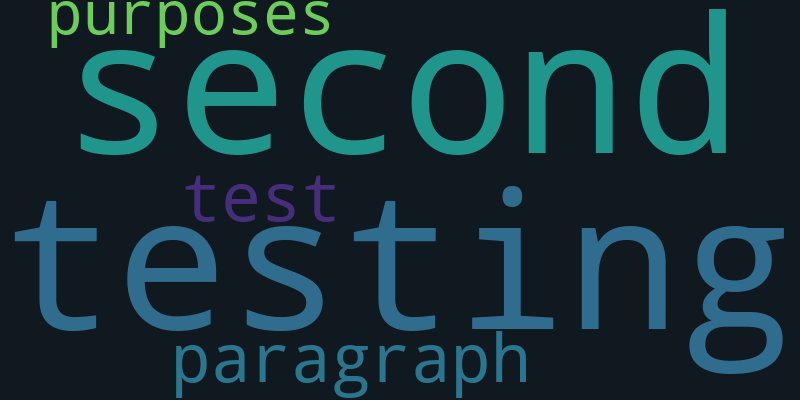
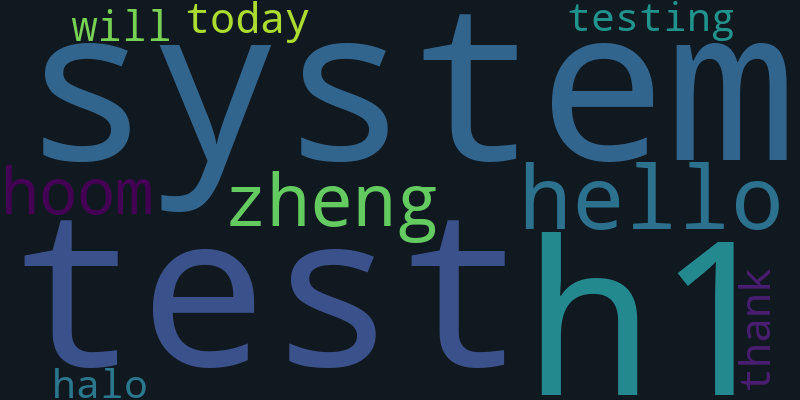
Slight modifications

diff --git a/static/script.js b/static/script.js
@@ -62,11 +62,11 @@ function validation(){
         openErrorPopup();
         return false;
     }
-//    else if(document.emaildata.subject.value.length < 5){
-//        document.getElementById("result").innerHTML="*Subject - Please enter proper subject.*";
-//        openErrorPopup();
-//        return false;
-//    }
+    else if (document.emaildata.emailBody.value.trim().length === 0) {
+        document.getElementById("result").innerHTML = "*Email Body - Cannot be empty.*";
+        openErrorPopup();
+        return false;
+    }
     else{
         document.getElementById("emailBody").value = document.getElementById("emailBody").value.replaceAll('<br>','')
         document.getElementById("emailBody").value = document.getElementById("emailBody").value.replaceAll('</p><p>','<br>')
@@ -75,21 +75,21 @@ function validation(){
     }
 }
 function excelValidation(){
-    if(document.exceldata.excelfile.value.length < 35){
-        document.getElementById("result").innerHTML="*Excel file - Please enter proper file directory.*";
+    if(document.exceldata.CSVfile.value.length < 35){
+        document.getElementById("result").innerHTML="*CSV file - Please enter proper file directory.*";
         openErrorPopup();
         return false;
     }
-    else if(document.exceldata.vendor.value.length < 7){
-        document.getElementById("result").innerHTML="*Vendor Code - Please enter proper vendor code.*";
+    else if(document.exceldata.name.value.length < 2){
+        document.getElementById("result").innerHTML="*Name - Please enter proper name.*";
         openErrorPopup();
         return false;
     }
-//    else if(document.exceldata.orderunit.value != "/^[A-Za-z]+$/"){
-//        document.getElementById("result").innerHTML="*Order Unit - Please enter proper unit.*";
-//        openErrorPopup();
-//        return false;
-//    }
+    else if(document.exceldata.subject.value.length < 3){
+        document.getElementById("result").innerHTML="*Subject - Please enter proper subject.*";
+        openErrorPopup();
+        return false;
+    }
     else{
         openPopup();
 

diff --git a/templates/excelTemp.html b/templates/excelTemp.html
@@ -18,7 +18,7 @@
     </div>
     <div class="email-template">
         <form name="exceldata" action="" method="post" enctype="multipart/form-data" onsubmit="return excelValidation()">
-        <h1> Excel PIR Template</h1>
+        <h1> Add Recipients </h1>
 
         <div class="content-template">
             <p>Add distribution list here: </p>

diff --git a/templates/index.html b/templates/index.html
@@ -13,11 +13,9 @@
     </script>
 
 <body>
-
     <section class = 'header'>
         <nav>
 <!--            <img src="static/Logo_Claim_A4_RGB.png" />-->
-
             <div class="nav-links">
                 <ul>
                     <ion-icon name="mail-outline"></ion-icon><li><a href="{{ url_for('massSend') }}">Mass Send </a></li>

diff --git a/static/css/style.css b/static/css/style.css
@@ -686,6 +686,18 @@ form.sign-up-form{
     color: white;
     height: 25px;
 }
+#editor h1{
+    color: white;
+    height: 25px;
+}
+#editor h2{
+    color: white;
+    height: 25px;
+}
+#editor h3{
+    color: white;
+    height: 25px;
+}
 .ql-container {
     background-color: #222222;
     border-radius: 10px;

diff --git a/app.py b/app.py
@@ -137,18 +137,28 @@ def saveValue():
         elif request.form['submitType'] == 'Save':
             for chunk in chunks:
                 for name, email, subject, attachment in chunk:
-                    message = outlook.CreateItem(0)
-                    message.To = email
-                    message.Subject = subject
-                    # Get signature
-                    message.GetInspector
-                    index = message.HTMLbody.find('>', message.HTMLbody.find('<body'))
-                    message.HTMLBody = message.HTMLbody[:index + 1] + template.format(name) + message.HTMLbody[index + 1:]
-                    attachments = attachment.split(', ')
-                    for i in range(len(attachments)):
-                        message.Attachments.Add(attachments[i])
-                    message.Save()
-                sleep(int(time))
+                    if attachment == '':
+                        message = outlook.CreateItem(0)
+                        message.To = email
+                        message.Subject = subject
+                        # Get signature
+                        message.GetInspector
+                        index = message.HTMLbody.find('>', message.HTMLbody.find('<body'))
+                        message.HTMLBody = message.HTMLbody[:index + 1] + template.format(name) + message.HTMLbody[index + 1:]
+                        message.Save()
+
+                    else:
+                        message = outlook.CreateItem(0)
+                        message.To = email
+                        message.Subject = subject
+                        # Get signature
+                        message.GetInspector
+                        index = message.HTMLbody.find('>', message.HTMLbody.find('<body'))
+                        message.HTMLBody = message.HTMLbody[:index + 1] + template.format(name) + message.HTMLbody[index + 1:]
+                        attachments = attachment.split(', ')
+                        for i in range(len(attachments)):
+                            message.Attachments.Add(attachments[i])
+                        message.Save()
         #     if attachment == '':
         #         for chunk in chunks:
         #             for name, email in chunk:
@@ -199,33 +209,37 @@ def dashboard():
     tdy = datetime.now()
     tdymonth = tdy.strftime("%b")
     month = tdy.strftime("%B")
-    with open(tdymonth + '.txt', 'r', encoding='utf-8') as file:
-        word = file.read().lower()
-    words = word.split(',')
+    try:
+        with open(tdymonth + '.txt', 'r', encoding='utf-8') as file:
+            word = file.read().lower()
+        words = word.split(',')
 
-    if word != '':
-        wordcloud = WordCloud(width=800, height=400, background_color='#101820').generate(word)
-        wordcloud.to_file('static/wordcloud.png')
-        word_count = Counter(words)
+        if word != '':
+            wordcloud = WordCloud(width=800, height=400, background_color='#101820').generate(word)
+            wordcloud.to_file('static/wordcloud.png')
+            word_count = Counter(words)
 
-        sorted_word_counts = dict(sorted(word_count.items(), key=lambda x: x[1], reverse=True))
-        top_10_words = list(sorted_word_counts.keys())[:10]
-        top_10_counts = [sorted_word_counts[item] for item in top_10_words]
+            sorted_word_counts = dict(sorted(word_count.items(), key=lambda x: x[1], reverse=True))
+            top_10_words = list(sorted_word_counts.keys())[:10]
+            top_10_counts = [sorted_word_counts[item] for item in top_10_words]
 
-        plt.figure(figsize=(10, 6))
-        # plt.bar(word_count.keys(), word_count.values())
-        plt.bar(top_10_words, top_10_counts)
-        plt.xlabel('Words')
-        plt.ylabel('Count')
-        plt.title('Word Count Bar Chart')
-        plt.xticks(rotation=45, ha='right')
-        plt.gca().yaxis.set_major_formatter(ticker.FormatStrFormatter('%d'))
-        plt.tight_layout()
-        plt.savefig('static/barchart.png')
+            plt.figure(figsize=(10, 6))
+            # plt.bar(word_count.keys(), word_count.values())
+            plt.bar(top_10_words, top_10_counts)
+            plt.xlabel('Words')
+            plt.ylabel('Count')
+            plt.title('Word Count Bar Chart')
+            plt.xticks(rotation=45, ha='right')
+            plt.gca().yaxis.set_major_formatter(ticker.FormatStrFormatter('%d'))
+            plt.tight_layout()
+            plt.savefig('static/barchart.png')
         return render_template('dashboard.html', month=month)
-    else:
-        return render_template('emptyContent.html'), {"Refresh": "4; url=mass_send"}
-
+    except FileNotFoundError as e:
+        app.logger.error(f"File not found: {e}")
+        raise e
+@app.errorhandler(FileNotFoundError)
+def file_error(error):
+    return render_template('emptyContent.html'),404,{"Refresh": "4; url=mass_send"}
 
 @app.route('/excel')
 def excelTemp():
@@ -242,44 +256,6 @@ def excelFunc():
     with open(CSVfile, 'a', newline='') as csvfile:
         csvwriter = csv.writer(csvfile, delimiter=',')
         csvwriter.writerow([name, email, subject, attachment])
-    # CSVfile = openpyxl.load_workbook(CSVfile)
-    # main_sheet = excelFile.active
-    # main_sheet =excelFile[main]
-    # for j in reference_sheet.iter_rows():
-    #     if int(vendor) == j[1].value:
-    #         main_sheet.cell(column=5, row=main_sheet.max_row+1, value=vendor)
-    #         main_sheet.cell(row=main_sheet.max_row, column=4).value = j[0].value  # vendor code
-    #         main_sheet.cell(row=main_sheet.max_row, column=20).value = j[2].value  # incoterm
-    #         main_sheet.cell(row=main_sheet.max_row, column=21).value = j[3].value   #incoterm desc
-    #         main_sheet.cell(row=main_sheet.max_row, column=17).value = j[4].value  # currency
-    #         main_sheet.cell(row=main_sheet.max_row, column=6).value = matno
-    #         main_sheet.cell(row=main_sheet.max_row, column=8).value = quolink1
-    #         main_sheet.cell(row=main_sheet.max_row, column=9).value = quolink2
-    #         main_sheet.cell(row=main_sheet.max_row, column=10).value = plant
-    #         main_sheet.cell(row=main_sheet.max_row, column=11).value = venmatno
-    #         main_sheet.cell(row=main_sheet.max_row, column=12).value = orderunit
-    #         main_sheet.cell(row=main_sheet.max_row, column=13).value = leadtime
-    #         main_sheet.cell(row=main_sheet.max_row, column=14).value = purchaseGroup
-    #         main_sheet.cell(row=main_sheet.max_row, column=15).value = moq
-    #         main_sheet.cell(row=main_sheet.max_row, column=16).value = netprice
-    #
-    # # main_sheet.delete_rows(9,1)
-    #
-    #         tdytime = time.strftime("%Y%m%d")
-    #     txtfile = open("wordContent.txt", 'a')
-    #     txtfile.write("\t" + "\t" + "\t" + "\n")
-    #     txtfile.close()
-    #         excelFile.save(excelfile)
-    #
-    #     # elif int(vendor) != j[1].value:
-    #     #     return messagebox.showerror("Vendor code", "Vendor code not found")
-    # outlook = client.Dispatch("Outlook.Application").GetNamespace("MAPI")
-    # inbox = outlook.GetDefaultFolder(6)
-    # messages = inbox.Items
-    # message = messages.GetLast()
-    #
-    # print(message.SenderName)
-    # print(message.subject)
 
     return render_template('loading.html'), {"Refresh": "4; url=excel"}
 
